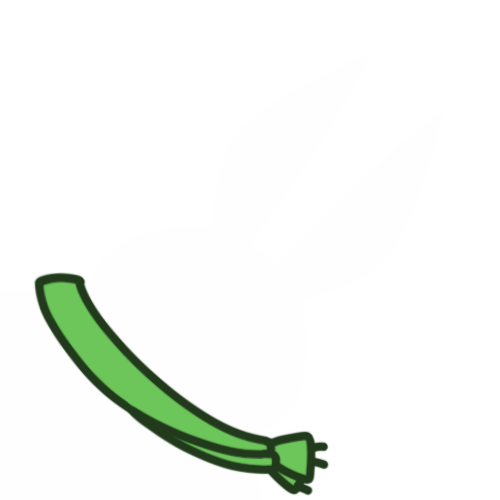
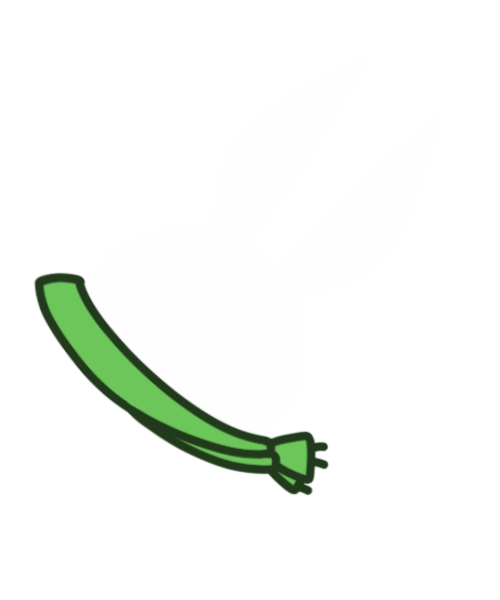
update img

Changed region(s): [[0.06, 0.45, 0.66, 0.99]]

diff --git a/src/utils/cssGenerator.js b/src/utils/cssGenerator.js
@@ -35,29 +35,19 @@ export const generateCSS = (config) => {
     --main-font: 'Gyeombalbal', 'M PLUS Rounded 1c', sans-serif;
     
     /* 채팅 스타일 1 (홀수) */
-    --bubble-bg-color: ${bubbleBgColor};
-    --bubble-sub-color: ${bubbleSubColor};
-    --bubble-line-color: ${bubbleLineColor};
-    --bubble-txt-color: ${bubbleTxtColor};
-    --bubble-name-font-color: ${nicknameTxtColor};
-    --bubble-inner-bg-color: ${bubbleDesignInnerBgColor};
+    --bubble-bg-color: #FFFFFF;
+    --bubble-sub-color: #FFFFFF;
+    --bubble-line-color: #391010;;
+    --bubble-txt-color: #000000;
+    --bubble-name-font-color: #FFFFFF;
+    --bubble-inner-bg-color: #FFFFFF;
 
-    /* 채팅 스타일 2 (짝수) */
-    --bubble-bg-color-2: ${bubbleBgColor2};
-    --bubble-sub-color-2: ${bubbleSubColor2};
-    --bubble-line-color-2: ${bubbleLineColor2};
-    --bubble-txt-color-2: ${bubbleTxtColor2};
-    --bubble-name-font-color-2: ${nicknameTxtColor2};
-    --bubble-inner-bg-color-2: ${bubbleDesignInnerBgColor2};
 
-    --bubble-design-width: ${bubbleDesignWidth}px;
-    --bubble-design-circle-size: ${bubbleDesignCircleSize}px;
-    --bubble-design-circle-position: ${bubbleDesignCirclePosition}px;
 
     /* 채팅 디자인 상단/하단 */
-    --bubble-design-top-img: url("${bubbleDesignTopImg}");
-    --bubble-design-bottom-img: url("${bubbleDesignBottomImg}");
-    --bubble-design-height: 60px;
+    --bubble-design-top-img: url("https://raw.githubusercontent.com/serafi0620/hiblueming-chat-simple-theme-generator/main/src/img/haru-line.png");
+    --bubble-design-bottom-img: url("https://raw.githubusercontent.com/serafi0620/hiblueming-chat-simple-theme-generator/main/src/img/haru-fill.png");
+    --bubble-design-height: 80px;
 
     /* 채팅 닉네임 */
     --bubble-name-font-size: 18px;
@@ -74,54 +64,42 @@ export const generateCSS = (config) => {
     letter-spacing: 0.5px;
 }
 
-.chat_list .chat_box:nth-child(even) .text {
-    color: var(--bubble-txt-color-2) !important;
-}
-
 .chat_list div.chat {
     position: relative !important; 
-    margin: calc(30px + ${showNickname ? '10' : '0'}px) 0px 20px 10px !important; 
-    padding: calc(20px + ${showNickname ? '10' : '0'}px) calc(var(--inner-padding-side) + 20px) 15px calc(var(--inner-padding-side) + 10px) !important;
-    max-width: ${fullWidthChat ? '100%' : '90%'} !important;
-    width: ${fullWidthChat ? '100%' : 'max-content'} !important;
+    margin: 20px 0px 20px 10px !important; 
+
+    padding: 15px 25px 15px 25px !important;
+    max-width: 100% !important;
+    width: 100% !important;
     word-wrap: break-word !important;
-    box-shadow: 0 0 0 3px var(--bubble-bg-color), 2px 4px 5px rgba(0, 0, 0, 0.08) !important;
+    box-shadow: 2px 4px 5px rgba(0, 0, 0, 0.08) !important;
     background-color: var(--bubble-bg-color) !important;
     border-radius: 18px !important; 
-    border: 4px solid var(--bubble-sub-color) !important;
-
-    background: 
-        radial-gradient(circle at calc(var(--bubble-design-circle-position) + var(--bubble-design-width)) 50%, var(--bubble-sub-color) var(--bubble-design-circle-size), transparent 21px),
-        radial-gradient(circle at calc(100% - var(--bubble-design-width) - var(--bubble-design-circle-position)) 50%, var(--bubble-sub-color) var(--bubble-design-circle-size), transparent 21px),
-        linear-gradient(to right, var(--bubble-sub-color) var(--bubble-design-width), var(--bubble-inner-bg-color) var(--bubble-design-width), var(--bubble-inner-bg-color) calc(100% - var(--bubble-design-width)), var(--bubble-sub-color) calc(100% - var(--bubble-design-width))) !important;
+    border: 2px solid var(--bubble-line-color) !important;
 }
 
-/* 짝수 번째 채팅 스타일 (스타일 세트 2) */
-.chat_list .chat_box:nth-child(even) div.chat {
-    box-shadow: 0 0 0 3px var(--bubble-bg-color-2), 2px 4px 5px rgba(0, 0, 0, 0.08) !important;
-    background-color: var(--bubble-bg-color-2) !important;
-    border: 4px solid var(--bubble-sub-color-2) !important;
+.chat_list div.chat::after,
+.chat_list div.chat::before {
+    content: ""; position: absolute; 
+    top: -58.7px; 
+    right: -48.5px; 
+    z-index: 5;   
 
-    background: 
-        radial-gradient(circle at calc(var(--bubble-design-circle-position) + var(--bubble-design-width)) 50%, var(--bubble-sub-color-2) var(--bubble-design-circle-size), transparent 21px),
-        radial-gradient(circle at calc(100% - var(--bubble-design-width) - var(--bubble-design-circle-position)) 50%, var(--bubble-sub-color-2) var(--bubble-design-circle-size), transparent 21px),
-        linear-gradient(to right, var(--bubble-sub-color-2) var(--bubble-design-width), var(--bubble-inner-bg-color-2) var(--bubble-design-width), var(--bubble-inner-bg-color-2) calc(100% - var(--bubble-design-width)), var(--bubble-sub-color-2) calc(100% - var(--bubble-design-width))) !important;
+    width: 100px; 
+    height: 100px;
+
+    background-size: contain; 
+    background-repeat: no-repeat; 
+    background-position: center;
 }
-
-.chat_list div.chat .name .id { display: none !important; }
-.chat_list div.chat .text { margin: 0 !important; padding: 0 !important; display: block !important; position: static !important; }
 
 .chat_list div.chat::after {
-    content: ""; position: absolute; top: -11px; right: -12px; z-index: 5;   
-    width: calc(var(--bubble-design-height) * 2); height: var(--bubble-design-height);
-    background-image: var(--bubble-design-top-img); background-size: contain; background-repeat: no-repeat; background-position: center;
+    background-image: var(--bubble-design-top-img); 
+}
+.chat_list div.chat::before {
+    background-image: var(--bubble-design-bottom-img); 
 }
 
-.chat_list div.chat::before {
-    content: ""; position: absolute; bottom: -17px; right: -25px; z-index: 5;   
-    width: calc(var(--bubble-design-height) * 2); height: var(--bubble-design-height);
-    background-image: var(--bubble-design-bottom-img); background-size: contain; background-repeat: no-repeat; background-position: center;
-}
 
 .chat_list div.chat .name {
     display: ${showNickname ? 'flex' : 'none'} !important;
@@ -132,9 +110,5 @@ export const generateCSS = (config) => {
     border: 2px solid var(--bubble-line-color) !important; align-items: center !important; gap: 4px !important; margin: 0 !important;
 }
 
-.chat_list .chat_box:nth-child(even) div.chat .name {
-    background: var(--bubble-sub-color-2) !important; color: var(--bubble-name-font-color-2) !important;
-    border: 2px solid var(--bubble-line-color-2) !important;
-}
 `;
 };

diff --git a/src/App.jsx b/src/App.jsx
@@ -51,7 +51,7 @@ function App() {
     }, [bottomClip, bottomDuck, bottomButton]);
 
     const [fullWidthChat, setFullWidthChat] = useState(false);
-    const [showNickname, setShowNickname] = useState(true);
+    const [showNickname, setShowNickname] = useState(false);
 
     const fontSize = 24; // 텍스트 크기 24px로 고정
     

diff --git a/src/constants/chatData.js b/src/constants/chatData.js
@@ -21,5 +21,5 @@ export const FIXED_CONFIG = {
     top: 1,        // 상단 여백
     width: 30,      // 1920 해상도 기준 25% (약 480px 너비)
     height: 25,     // 높이 75%
-    scale: 0.7      // 스케일을 1.0으로 키워 1920 해상도에서 곡률이 체감상 줄어들어 보이게 유도
+    scale: 0.8      // 스케일을 1.0으로 키워 1920 해상도에서 곡률이 체감상 줄어들어 보이게 유도
 };